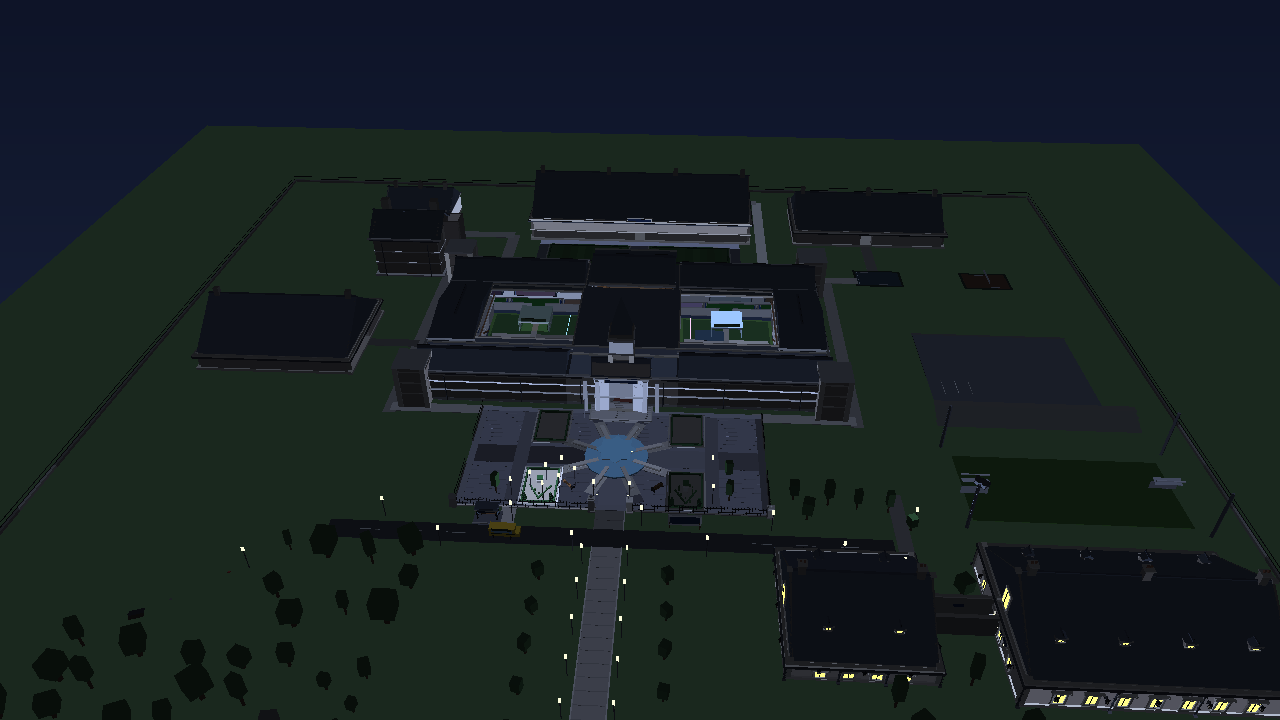
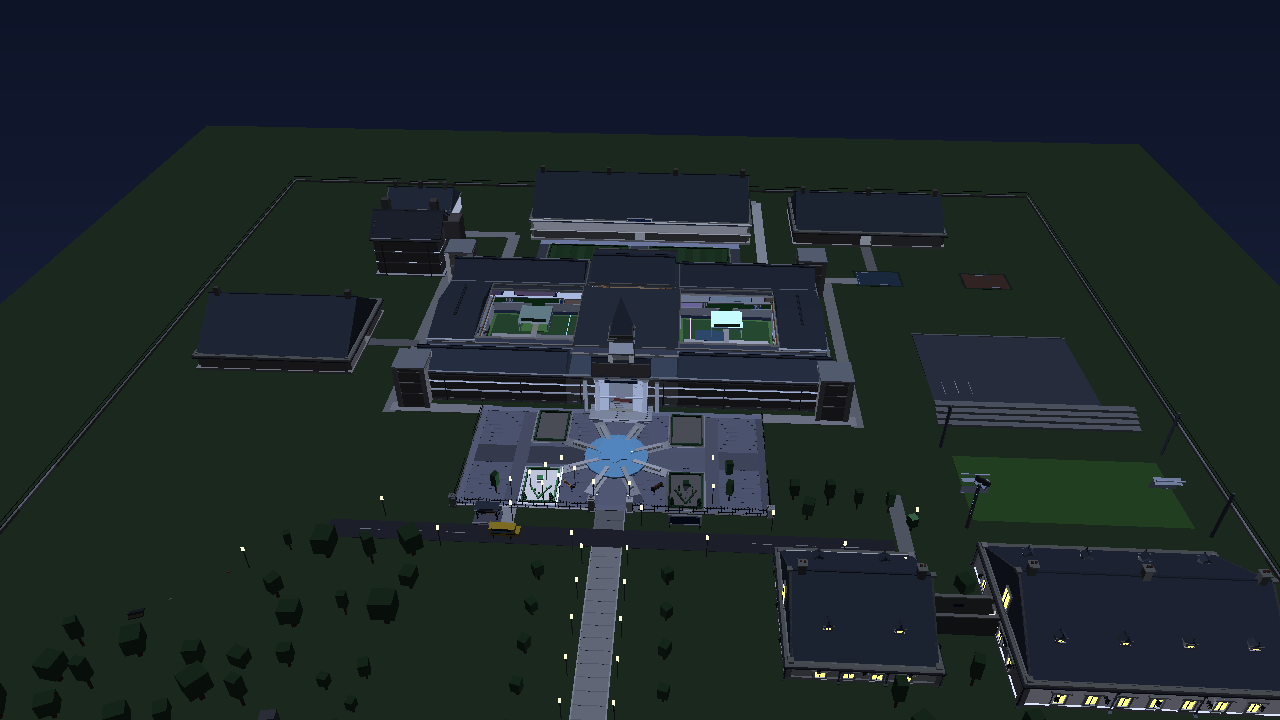
Fix the renderer bug that blanked every night shot's roofscape
The moonlight term added last build named its local `up`, which is the
camera basis vector `to_cam` closes over. The first non-emissive face in a
night render rebound it to a float, and the next call to `to_cam` raised
TypeError -- so the whole night pass died partway and every night_*.png on
disk was the stale pre-ambient render.

That is why neither the ambient lift nor the moonlight term changed a
pixel, and why the Student Dorms range looked as though it had no roof:
dormers and chimney pots over a void. The roof was in the map the whole
time. Renamed the term to `skyward` and re-rendered; the dorm slope now
draws, and the ambient and moonlight values finally reach the image.

diff --git a/tools/render_map.py b/tools/render_map.py
@@ -859,7 +859,17 @@ def render(cam, target, path, width=1280, height=720, fov=70, sky=((150, 195, 23
                     # colour's own level. Raised to 0.175 with OutdoorAmbient, which went to
                     # #28345 2 for the same reason: at 0.115 every roof on the campus
                     # rendered black and the whole roofscape vanished.
-                    shade = max(shade * 0.16, 0.175) + min(1.05, lamplight(fcx, fcy, fcz, nx, ny_, nz_) * 0.42)
+                    # MOONLIGHT on the upward faces. Ambient alone put the
+                    # roofs at almost exactly the value of the night sky
+                    # behind them, so raising it from 0.115 to 0.175 changed
+                    # nothing you could see: the roofscape was not black, it
+                    # was the same colour as what it was silhouetted against.
+                    # What separates a slate roof from the sky at night is the
+                    # moon catching it, and that is a term on the face's own
+                    # up-component, not a constant.
+                    skyward = max(0.0, ny_)
+                    shade = max(shade * 0.16, 0.175) + skyward * 0.26 \
+                        + min(1.05, lamplight(fcx, fcy, fcz, nx, ny_, nz_) * 0.42)
             col = tuple(min(255, int(ch * shade)) for ch in c)
             faces.append((corners, col))
 
